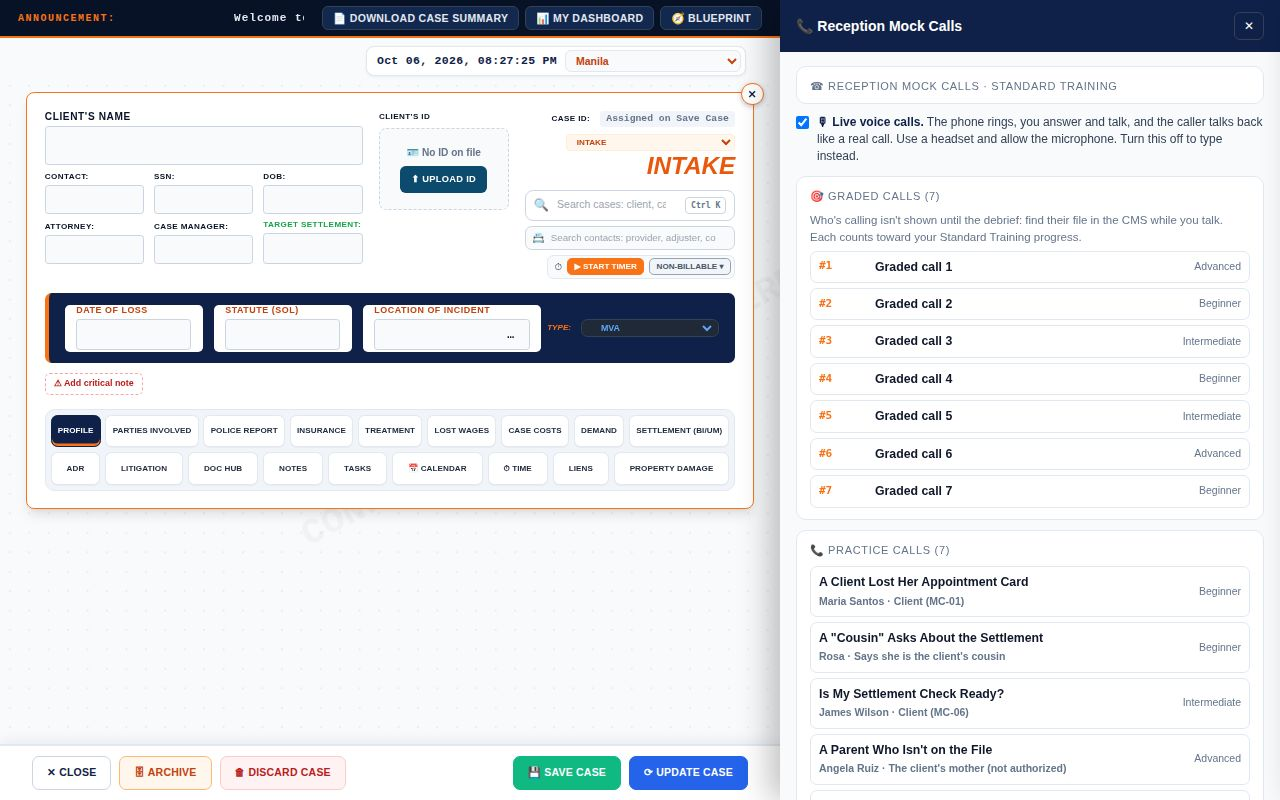
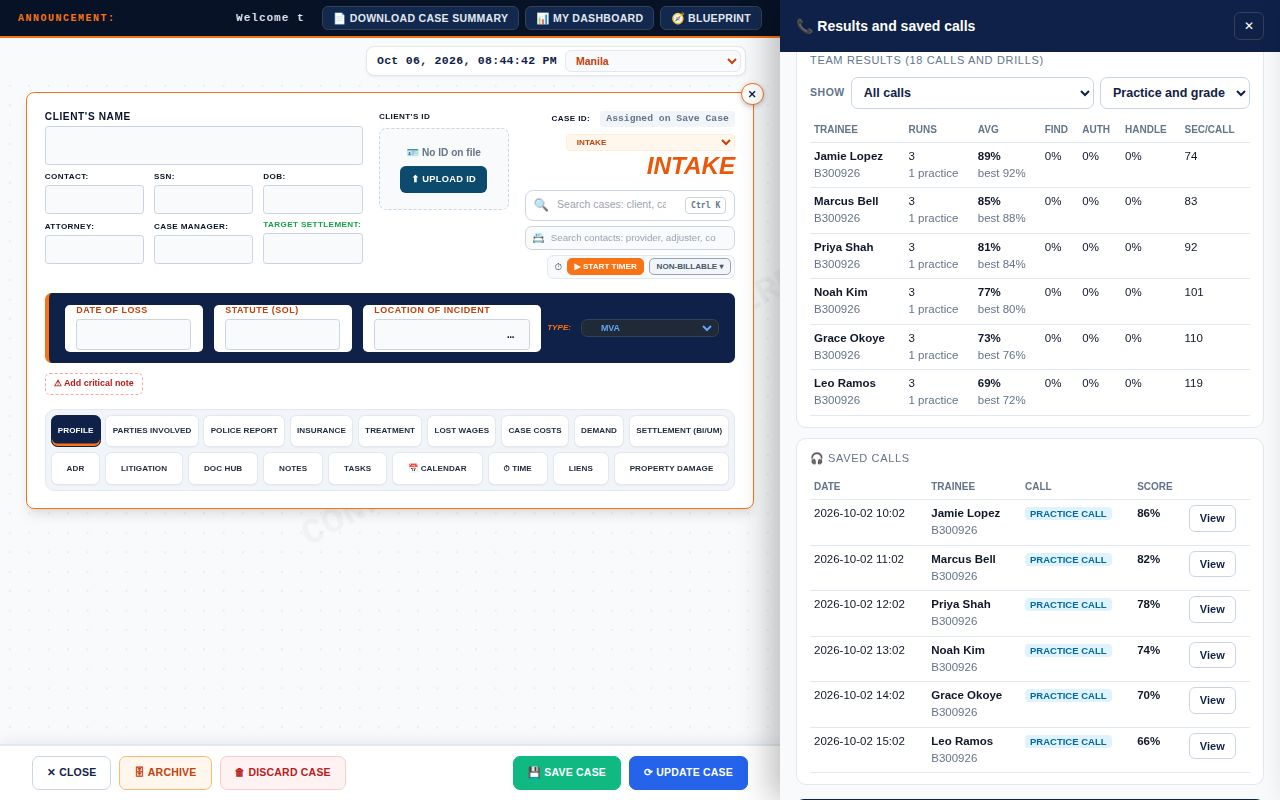
Call Simulator: 📊 Results and saved calls under the call lines
The home screen stays the call lines, with one button under them: 📊 Results and saved calls
opens My results, an Admin's team table and 🎧 Saved calls on a screen of their own (an
Admin's way to review trainees' saved calls and write Trainer Notes). ← Back from a saved call
returns there; the drill and Core-caller debriefs' My results go there too.

known-gaps.cjs opens the results through it; call-lines.cjs checks the button and the screen;
the trainer Blueprint shot shows the team table again.

Claude-Session: https://claude.ai/code/session_01P8khRScK4qA2qPBPXA4ncp

diff --git a/front-desk-drill.js b/front-desk-drill.js
@@ -549,7 +549,7 @@
             const data = await res.json();
             history = data && data.success ? data : { results: [], isAdmin: false };
         } catch (e) { history = { results: [], isAdmin: false, error: true }; }
-        if (screen === 'home' || screen === 'summary' || screen === 'line') paint();
+        if (screen === 'home' || screen === 'results' || screen === 'summary' || screen === 'line') paint();
         else if (screen === 'pcdebrief') { const h = $id('fdd-pc-hist'); if (h) h.innerHTML = historyHTML(); }
     }
     window.fddHome = function () { hangUp(); stopTimer(); D = null; endPractice(); screen = 'home'; document.body.classList.remove('fdd-on'); loadHistory(); paint(); };
@@ -561,14 +561,14 @@
         if (screen === 'line' && !LN) screen = 'home';
         const title = screen === 'call' ? `Call ${D.i + 1} of ${D.calls.length}` : screen === 'summary' ? 'Drill complete'
             : screen === 'practice' ? (P.pack && P.graded ? 'Graded call' : 'Practice call') : screen === 'pcwrap' ? 'Wrap up the call' : screen === 'pcdebrief' ? 'Call debrief' : screen === 'saved' ? 'Saved call'
-            : screen === 'line' ? esc(LN.line) : 'Call Simulator';
+            : screen === 'line' ? esc(LN.line) : screen === 'results' ? 'Results and saved calls' : 'Call Simulator';
         const t0 = screen === 'call' ? D.cur.t0 : screen === 'practice' ? P.t0 : null;
         const clock = screen === 'call' || screen === 'practice' ? `<span class="t" id="fdd-timer">${t0 ? fmtSec(Math.round((Date.now() - t0) / 1000)) : '0:00'}</span>` : '';
         const hide = ['call', 'practice', 'pcwrap'].includes(screen) ? `<button onclick="fddMinimize()" title="Hide to read the case">▭ Case</button>` : '';
         p.innerHTML = `<div class="fdd-h"><b>📞 ${title}</b>${clock}${hide}<button onclick="fddClose()">✕</button></div>
             <div class="fdd-b">${screen === 'call' ? callHTML() : screen === 'summary' ? summaryHTML() : screen === 'practice' ? practiceHTML()
                 : screen === 'pcwrap' ? (P.pack ? packWrapHTML() : pcWrapHTML()) : screen === 'pcdebrief' ? (P.pack ? packDebriefHTML() : pcDebriefHTML()) : screen === 'saved' ? savedCallHTML()
-                : screen === 'line' ? lineHTML() : homeHTML()}</div>`;
+                : screen === 'line' ? lineHTML() : screen === 'results' ? resultsHTML() : homeHTML()}</div>`;
         if (['call', 'practice', 'pcwrap'].includes(screen)) paintResults();
         if (screen === 'practice') { pcIdCard(); pcControls(); pcTr(); const box = $id('fdd-pc-in'); if (box) box.value = P.draft || ''; }
         if (screen === 'pcdebrief') paintSaved();
@@ -578,11 +578,16 @@
         if (b) b.disabled = !(cur && cur.selected && cur.auth && cur.action != null);
     }
 
-    // The home screen is the call lines, and nothing else: every program's calls, Practice and Graded. (The Core callers'
-    // practice call and the scored drill are no longer offered there; a call's debrief still shows the results.)
+    // The home screen is the call lines: every program's calls, Practice and Graded, and under them only the way to the
+    // results (My results, an Admin's team table, 🎧 Saved calls). The Core callers' practice call and the scored drill
+    // are no longer offered there.
     function homeHTML() {
-        return linesHomeHTML() || '<p style="color:#64748b;font-size:12px">The call lines aren\'t available.</p>';
+        return (linesHomeHTML() || '<p style="color:#64748b;font-size:12px">The call lines aren\'t available.</p>')
+            + '<button class="fdd-go" style="background:#475569" onclick="fddResults()">📊 Results and saved calls</button>';
     }
+    // The results on a screen of their own (a call's debrief shows them too).
+    window.fddResults = function () { hangUp(); stopTimer(); D = null; endPractice(); screen = 'results'; document.body.classList.remove('fdd-on'); loadHistory(); paint(); };
+    const resultsHTML = () => `${historyHTML()}<button class="fdd-go" onclick="fddHome()">← Call lines</button>`;
 
     window.fddDrillSet = function (v) { drillSet = parseInt(v, 10) || 0; };
     // The Core callers at the level picked, each with the start of what they call about and your best score on them.
@@ -648,7 +653,7 @@
         } catch (e) { SAVED = { id, error: e.message || 'Couldn\'t load that call.' }; }
         if (screen === 'saved') { paint(); const b = $id('fdd-panel').querySelector('.fdd-b'); if (b) b.scrollTop = 0; }
     };
-    window.fddSavedBack = function () { SAVED = null; screen = 'home'; paint(); };
+    window.fddSavedBack = function () { SAVED = null; screen = 'results'; paint(); };
     function savedCallHTML() {
         const back = `<button class="fdd-go" onclick="fddSavedBack()">← Back to the results</button>`;
         if (!SAVED || SAVED.loading) return `<p style="color:#64748b;font-size:12px">Loading the call…</p>${back}`;
@@ -907,7 +912,7 @@
             <div class="fdd-sec"><h4>Call by call</h4><table class="fdd-tbl"><thead><tr><th>Call</th><th>Find</th><th>Auth</th><th>IDs</th><th>Handle</th><th>Time</th><th>Score</th></tr></thead><tbody>
             ${D.results.map(r => `<tr><td>${esc(r.id)} · ${esc(r.mock || 'new')}</td><td>${r.find ? '✓' : '✗'}</td><td>${r.authOk ? '✓' : '✗'}</td><td>${r.idsOk ? '✓' : '✗'}</td><td>${r.actOk ? '✓' : '✗'}</td><td>${fmtSec(r.secs)}</td><td><b>${r.score}</b></td></tr>`).join('')}</tbody></table></div>
             <button class="fdd-go alt" onclick="fddStart()">▶ Another drill</button>
-            <button class="fdd-go" onclick="fddHome()">My results</button>`;
+            <button class="fdd-go" onclick="fddResults()">My results</button>`;
     }
 
     /* ---------- practice calls (no script) ---------- */
@@ -1688,7 +1693,7 @@ Reply with exactly this JSON:
                 <div class="fdd-tx" style="max-height:none">${trHTML(l.msgs)}</div>${l.note ? `<p style="margin:6px 0 0;font-size:12px"><b>Your note:</b> ${esc(l.note)}</p>` : ''}</details>
             ${coreNext(c) ? `<button class="fdd-go alt" onclick="fddPracticeStart('${esc(coreNext(c).id)}')">📞 Next caller: ${esc(coreNext(c).id)}</button>` : ''}
             <button class="fdd-go" style="background:#475569" onclick="fddPracticeStart('${esc(c.id)}')">↻ Take this call again</button>
-            <button class="fdd-go" onclick="fddHome()">My results</button>
+            <button class="fdd-go" onclick="fddResults()">My results</button>
             <div id="fdd-pc-hist" style="margin-top:10px">${historyHTML()}</div>`;
     }
 

diff --git a/blueprint-content.js b/blueprint-content.js
@@ -90,7 +90,7 @@
                 'The call lines: pick your program\'s calls (Calls ▾), then Practice or Graded.',
                 'A caller phones in (or you place the call), and you take the whole call in your own words, by voice or typing.',
                 'Verify the caller before you share anything: full name, date of birth, date of loss and one more identifier.',
-                'After the call: your note and a debrief on the call\'s goals, with your results.'],
+                'After the call: your note and a debrief on the call\'s goals; 📊 Results and saved calls has all your calls.'],
               where: 'Sidebar → 📞 Call Simulator.',
               tip: 'Never give advice or a case value on a call. Take a complete message instead.',
               shot: 'blueprint/trainee-reception.jpg', shotAlt: 'The Call Simulator: the call lines, each with Practice and Graded' },
@@ -209,10 +209,10 @@
                 'Its home screen is the call lines: each program\'s calls (Calls ▾), each line with Practice and Graded.',
                 'Graded calls are numbered (Graded call 1, 2…), the same for everyone, and count in the trainee\'s course.',
                 'The trainee takes the whole call in their own words, by voice or typing, writes the line\'s note and gets a debrief on the call\'s goals.',
-                'A call\'s debrief shows you the team table and 🎧 Saved calls, with the Show dropdowns to grade one line.'],
+                '📊 Results and saved calls (under the call lines) shows you the team table and 🎧 Saved calls, with the Show dropdowns to grade one line.'],
               where: 'Sidebar → 📞 Call Simulator.',
               tip: 'Take one practice call yourself before the class does, to check the caller and the debrief.',
-              shot: 'blueprint/trainer-reception.jpg', shotAlt: 'The Call Simulator: a line\'s numbered graded calls' },
+              shot: 'blueprint/trainer-reception.jpg', shotAlt: 'The Call Simulator\'s team table and saved calls' },
             { icon: '🧾', title: 'The RECEPTION MOCK CALL scorecard', points: [
                 'The debrief rates 14 items, 0 to 5 each; the score is the share of points on the items that apply.',
                 'Checked from the call: the introduction, authentication, the closing spiel, time (the first ring, about 3 s) and dead air or fillers.',

diff --git a/README.md b/README.md
@@ -69,7 +69,7 @@ What the cases cover, from starter to advanced: every phase from Intake to Litig
 
 ## 📞 Call Simulator: the call lines
 
-Sidebar → **📞 Call Simulator** (after 📝 New Intake), for trainees and Admins alike. This is the main Call Simulator: every platform's Call Simulator link opens it (below). Its home screen is the **call lines** and nothing else: every program's mock calls, each line with **Practice** and **Graded**. (The Core callers' practice call and the scored drill below are no longer offered there; their code is still in `front-desk-drill.js`.) The **🎙 Live voice calls** choice is on a line's screen, above its calls, and a call's debrief shows the results.
+Sidebar → **📞 Call Simulator** (after 📝 New Intake), for trainees and Admins alike. This is the main Call Simulator: every platform's Call Simulator link opens it (below). Its home screen is the **call lines**: every program's mock calls, each line with **Practice** and **Graded**, and under them only **📊 Results and saved calls** (My results, an Admin's team table, 🎧 Saved calls, on a screen of their own; a call's debrief shows them too). The Core callers' practice call and the scored drill below are no longer offered there; their code is still in `front-desk-drill.js`. The **🎙 Live voice calls** choice is on a line's screen, above its calls.
 
 ### 📞 Call lines (`call-packs.js`)
 
@@ -85,7 +85,7 @@ Every program's mock calls, by line, on the same phone as the practice calls bel
 The FT, CM and PD calls came from the Training Portal's Call Simulator and now live here; the EA / PA lines were written from the EA-PA program. **📞 Call lines** has a **Calls** dropdown that keeps the calls apart: by program (Standard Training, Case Management, Property Damage, EA / PA) or across them (☎ Reception, 📋 Intake, 🗓 Calendaring, which also opens the 🗓 Attorney's Calendar and the Portal's calendar simulators).
 - **It opens on the Cases System:** opening the Call Simulator (the sidebar's 📞 Call Simulator, or a `?calls=1` link) closes Master Control and My Dashboard, so the panel is beside the case workspace. An Admin who signs in on a `?calls=1` link stays on the Call Simulator: Master Control doesn't open over it (`portal.js`).
 - **Calls picked, not random:** every call is listed and the trainee picks it: a line lists its 🎯 graded calls and its 📞 practice calls. Each call shows the trainee's best score on it (✓ 85%; `/api/drill-results` names each result's call, `call_id`).
-- **Results, kept apart for grading:** on a call's debrief, above My results and the team results, a **Show** dropdown picks the calls (all, the Core callers, a drill set, a program's calls, or one line) and a second one Practice and graded / 🎯 Graded only / Practice only. The team table's averages, and 🎧 Saved calls, follow them, so a trainer can grade one line's graded calls for the whole team.
+- **Results, kept apart for grading:** in 📊 Results and saved calls (and on a call's debrief), above My results and the team results, a **Show** dropdown picks the calls (all, the Core callers, a drill set, a program's calls, or one line) and a second one Practice and graded / 🎯 Graded only / Practice only. The team table's averages, and 🎧 Saved calls, follow them, so a trainer can grade one line's graded calls for the whole team.
 
 - **Practice** (per line): pick a caller from the line's list. The brief above the phone has your role, what you know, the file (FT: **Open MC-05**) or the case summary / client profile you work from, what you're scored on, the line's tips and the note you'll write.
 - **Graded** (per line): numbered calls (**Graded call 1, 2…**), the same for everyone, so a trainer can assign one ("Intake, graded call 3"). They're numbered in an order of their own (not the practice list's), and who's calling isn't shown until the debrief (an incoming call shows **Unknown caller**, and an FT brief doesn't name the file: you get the name, verify and find the file). After the debrief, **🎯 Next: Graded call 4** takes the next one. The goals aren't shown before the call, and the note is required. It counts in the course: FT by lesson (Reception 4, Calendar Management 5, Intake 6), the other programs in their own course by line (`courseOf`). When it's saved, `/api/drill-results` sends it to the Training Portal (`/api/call-results`, with the AI gateway's secret `AI_GATEWAY_SECRET`), which keeps it on the trainee's Portal results and in their course's store, where the course shows it on their progress; the debrief says where it counted ("It counts toward your Standard Training, lesson 5: your best there is 82%"). If the Portal can't be reached, the call is still saved here.
